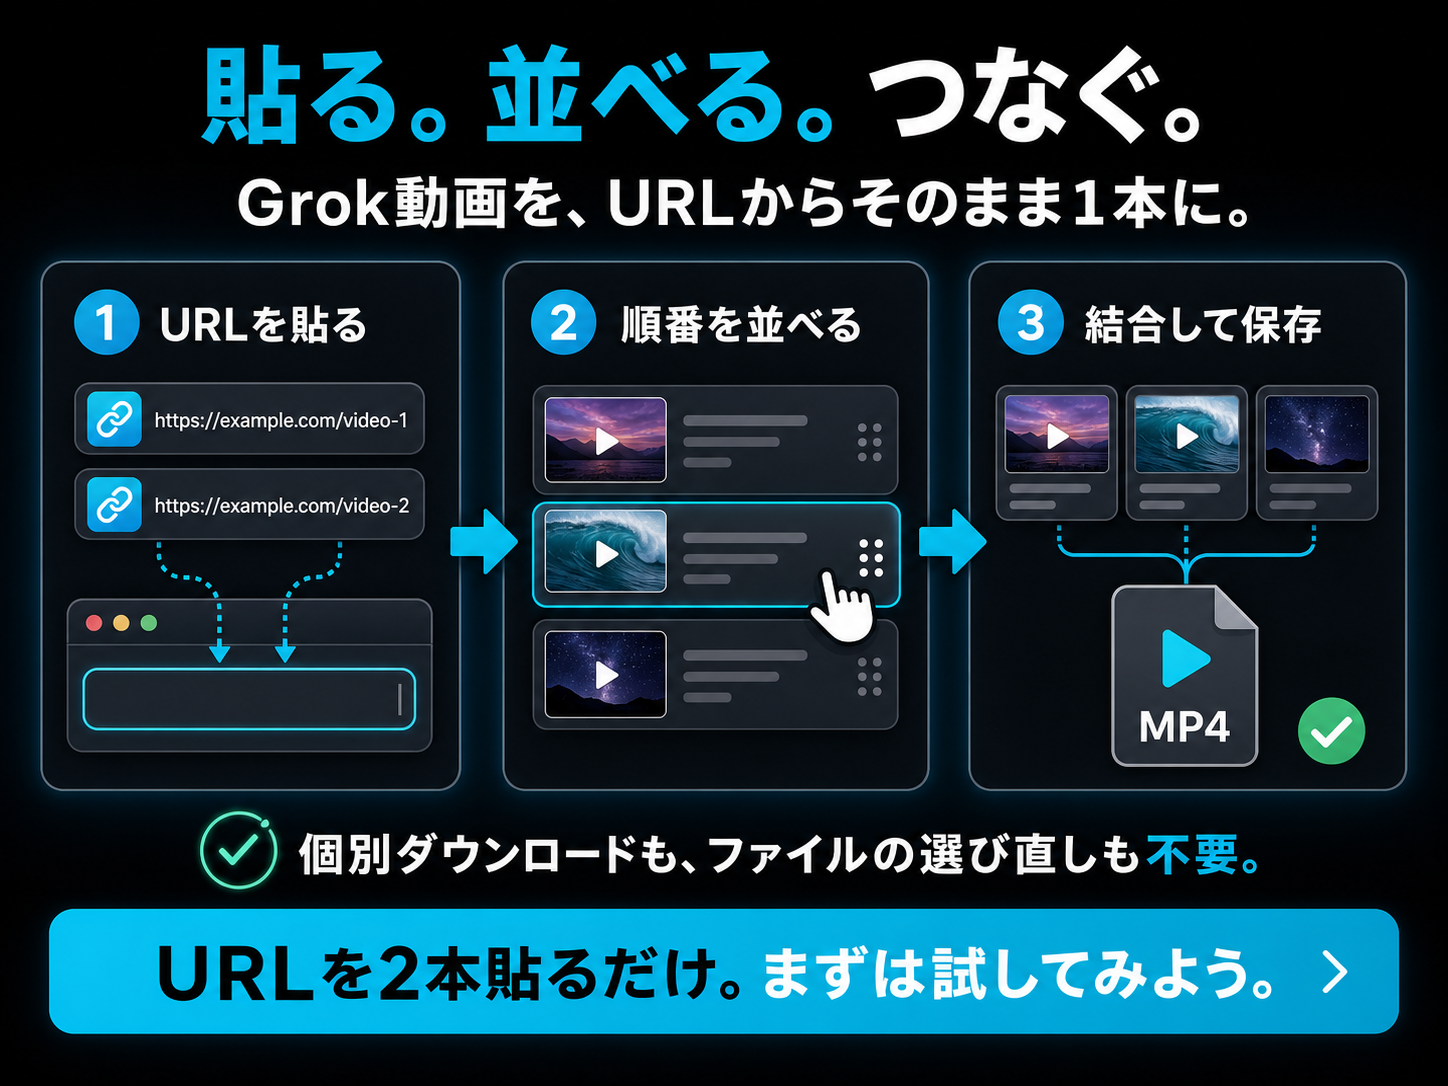
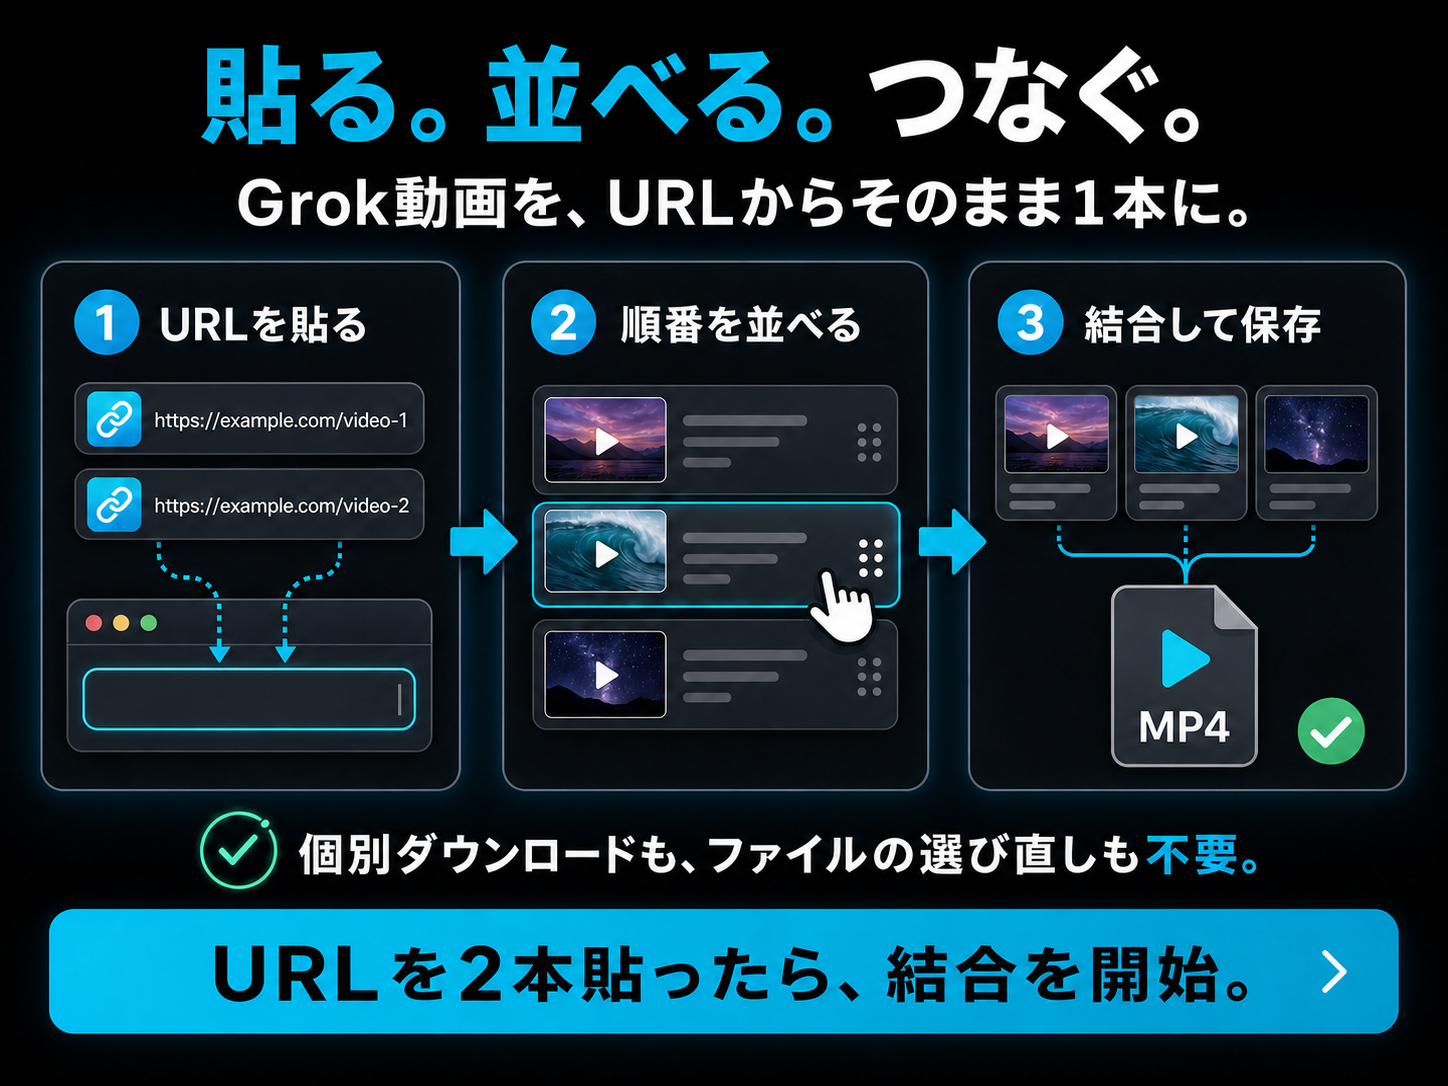
Clarify video join action copy

diff --git a/_App/src/app/tools/video-join/VideoJoinTool.tsx b/_App/src/app/tools/video-join/VideoJoinTool.tsx
@@ -573,7 +573,7 @@ export function VideoJoinTool() {
               </p>
               <div className="mt-5 flex flex-col gap-2 sm:flex-row sm:items-center">
                 <button type="button" onClick={focusUrlInput} className="inline-flex items-center justify-center gap-2 rounded-lg bg-cyan-500 px-4 py-2.5 text-sm font-black text-[#10232a] transition hover:bg-cyan-300">
-                  <MousePointerClick size={17} /> URLを2本貼るだけ。まずは試してみる
+                  <MousePointerClick size={17} /> URLを貼って結合を始める
                 </button>
                 <button type="button" onClick={() => setIsGuideOpen(true)} className="inline-flex items-center justify-center gap-2 rounded-lg border border-cyan-300/30 px-4 py-2.5 text-sm font-bold text-cyan-100 transition hover:border-cyan-200/60 hover:bg-white/5">
                   <CircleHelp size={17} /> 3ステップの使い方を見る
@@ -706,7 +706,7 @@ export function VideoJoinTool() {
                 <div className="flex h-8 w-8 shrink-0 items-center justify-center rounded-full bg-cyan-500 text-sm font-black text-white">3</div>
                 <div>
                   <h2 className="font-bold text-white">結合して保存</h2>
-                  <p className="mt-1 text-xs text-gray-400">まず無劣化の高速結合を試します。</p>
+                  <p className="mt-1 text-xs text-gray-400">まず無劣化の高速結合を行います。</p>
                 </div>
               </div>
 

diff --git a/_Dev/docs/misc/20260713_動画結合ブラウザツール実装.md b/_Dev/docs/misc/20260713_動画結合ブラウザツール実装.md
@@ -2,12 +2,12 @@
 
 ## ページ訴求と使い方画像
 
-機能の完成後、初見でも「試してみよう」と思えるようにページ先頭の訴求を次へ更新した。
+機能の完成後、初見でも操作内容を理解できるようにページ先頭の訴求を次へ更新した。
 
 - 主見出し: 「貼る。並べる。つなぐ。」
 - 副見出し: 「Grok動画を、URLからそのまま1本に。」
 - 利点: 「個別ダウンロードも、ファイルの選び直しも不要です。」
-- 試用導線: 「URLを2本貼るだけ。まずは試してみる」からURL入力欄へ移動する
+- 操作導線: 「URLを貼って結合を始める」からURL入力欄へ移動する
 - 説明導線: 「3ステップの使い方を見る」から1枚の説明画像をモーダル表示する
 
 説明画像は `_App/src/app/tools/video-join/video-join-guide.png` に置き、「URLを貼る」「順番を並べる」「結合して保存」の操作を1枚で示す。画像はページ内で拡大表示し、背景クリック、閉じるボタン、Escapeキーのいずれでも閉じられる。
